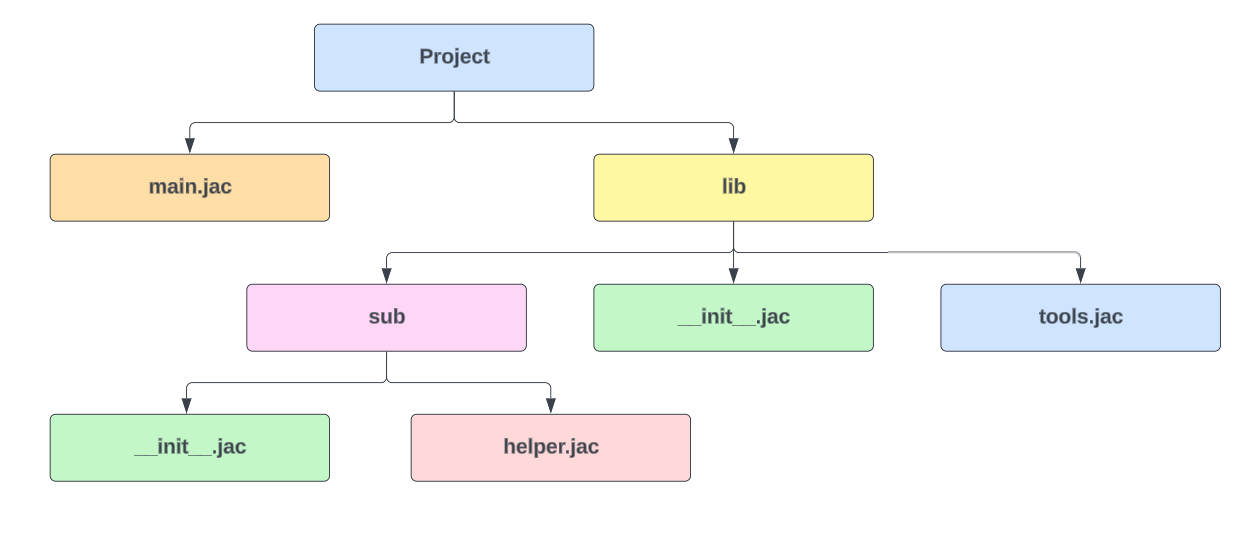
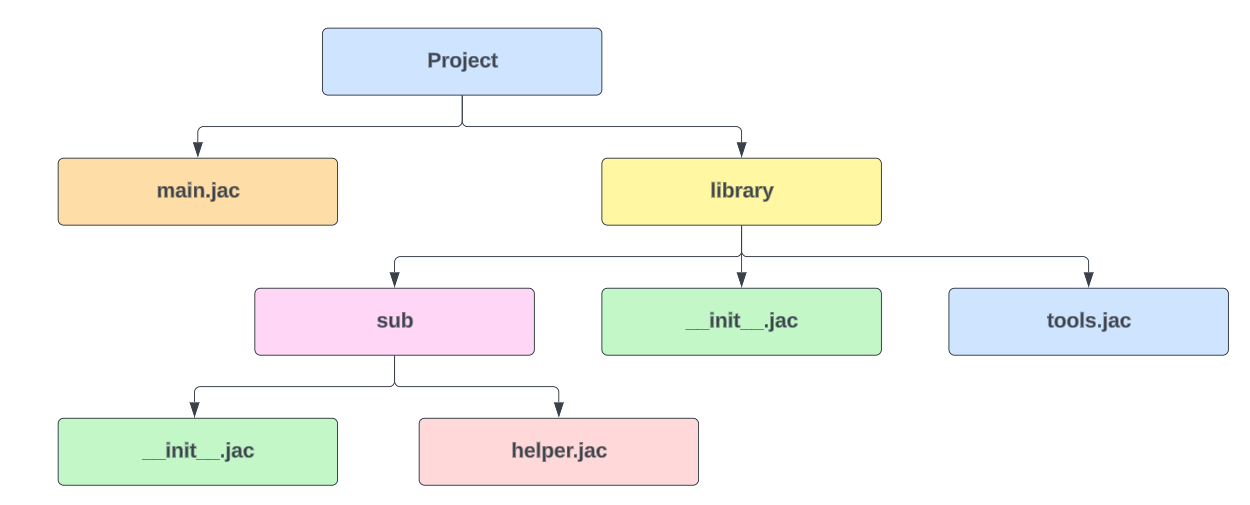
fixed changes

diff --git a/docs/docs/learn/language_basics/Jaclang_package.md b/docs/docs/learn/language_basics/Jaclang_package.md
@@ -13,35 +13,27 @@ Jaclang supports a modular package system, allowing you to organize Jac code acr
 - This is the **entry point** to the project.
 
 ```Jac linenums="1"
-import from lib { tool_func }
-import from lib.sub { help_func }
-
-def main() {
-
-    print('Main Execution:\n') ;
-    print('Calling from tools.py...') ;
-    print('Tool says:', tool_func()) ;
-    print('\nCalling from helper.py...') ;
-    print('Helper says:', help_func()) ;
-}
+import from library.tools { tool_func }
+import from library.sub.helper { help_func }
 
 with entry {
-    if __name__ == '__main__' {
-        main() ;
-    }
+    print('Main Execution:\n') ;
+    print('Calling from tools.jac...') ;
+    print('Tool says:', tool_func()) ;
+    print('\nCalling from helper.jac...') ;
+    print('Helper says:', help_func()) ;
 }
 ```
 
-2.lib/__init_.jac
+2.library/__init_.jac
 
-This file initializes the `lib` package, exposing the `tool_func` function and sub-package `sub`.
+This file initializes the `library` package, exposing the `tool_func` function and sub-package `sub`.
 
 ```Jac linenums="1"
 import from .tools { tool_func }
-import from ..lib { sub }
 ```
 
-3.lib/tool_func.jac
+3.library/tools.jac
 
 A utility function implementation.
 
@@ -51,7 +43,7 @@ def tool_func() {
 }
 ```
 
-4.lib/sub/__init_.jac
+4.library/sub/__init_.jac
 
 Used to expose functionality from the sub-package. Defines or re-exports `help_func`.
 
@@ -59,7 +51,7 @@ Used to expose functionality from the sub-package. Defines or re-exports `help_f
 import from .helper { help_func }
 ```
 
-5.lib/sub/help_func.jac
+5.library/sub/helper.jac
 
 Alternatively, we can define `help_func` here and import it into the `__init__.jac`
 
@@ -76,25 +68,25 @@ Jaclang allows importing functions, variables, or objects from other modules usi
 1.Absolute Imports
 
 ```Jac linenums="1"
-import from lib.tools { tool_func }
-import from lib.sub.helper { help_func }
+import from library.tools { tool_func }
+import from library.sub.helper { help_func }
 ```
 
 Absolute imports specify the complete path to a module starting from the root of the project. They are useful for clearly indicating where a module is located within the overall folder structure and remain consistent regardless of the location of the importing file.
 
-- **Package.mod** - Absolute import path from the root of the project (`import from lib.sub { help_func }`)
+- **Package.mod** - Absolute import path from the root of the project (`import from library.sub { help_func }`)
 
 2.Relative Imports
 
 ```Jac linenums="1"
 import from .tools { tool_func }
-import from ..lib { sub }
+import from ..library { sub } 
 ```
 
 Relative imports use dots `(. or ..)` to indicate location relative to the current file.
 
 - **Single dot (.)** - Current directory/module (`import from .tools {tool_func}`)
-- **Double dot (..)** - parent directory (`import from ..lib {sub}`)
+- **Double dot (..)** - parent directory (`import from ..library {sub}`)
 
 ## How __init__.jac works in Jaclang
 
@@ -113,7 +105,8 @@ Without this `__init__.jac ` file , jaclang will not allow direct imports from t
 The `__init__.jac` file can **import specific functions, classes, or modules** from within the package and make them available for use when the package is imported.
 
 ```Jac linenums="1"
-import from .tools { tool_func }  # expose tool_func
+import from .tools { tool_func } # expose tool_func
+import from .sub.helper { help_func }
 ```
 
 In this abstraction helps to:
@@ -125,29 +118,10 @@ In this abstraction helps to:
 
 We can structure projects into meaningful subdirectories and use `__init__.jac` files at different levels to expose only what you need.
 
-- `lib/__init__.jac` can import from `tools.jac` and `sub/__init__.jac`
-- `sub/__init__.jac` can import from `helper.jac`
-
-4.Makes Submodules Accessible During Imports.
-
-`__init__.jac` is also useful to expose sub-packages or allow nested modules to be reached through top-level imports.
-
 ```Jac linenums="1"
-# lib/__init__.jac
 import from .tools { tool_func }
-import from .sub { help_func }  # re-export from subpackage
+import from .sub.helper { help_func }  # Explicitly import from submodule helper.jac
 ```
 
-Now we can works smoothly in `main.jac`
-
-```Jac linenums="1"
-# main.jac
-import from lib { tool_func, help_func }
-```
-
-Without this re-export in `lib/__init__.jac` , we have to do,
-
-```Jac linenums="1"
-import from lib.tools { tool_func }
-import from lib.sub.helper { help_func }
-```
+- `library/__init__.jac` can import from `tools.jac` and `sub/__init__.jac`
+- `sub/__init__.jac` can import from `helper.jac`
